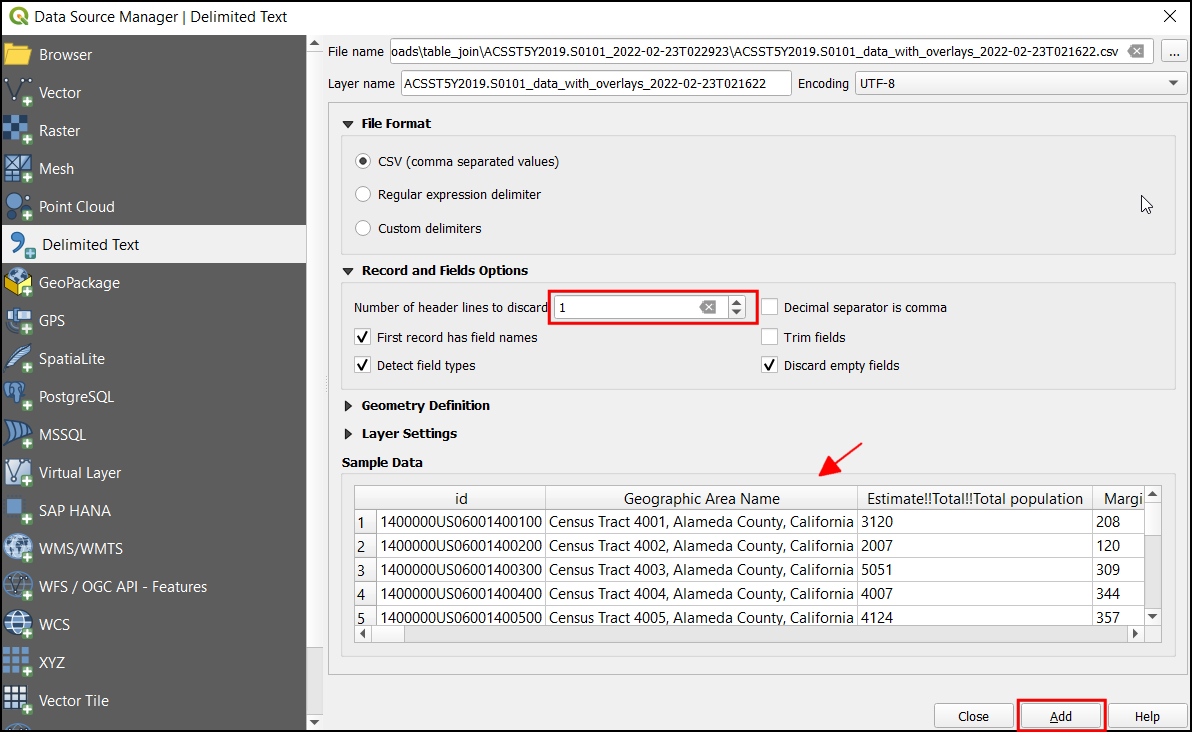
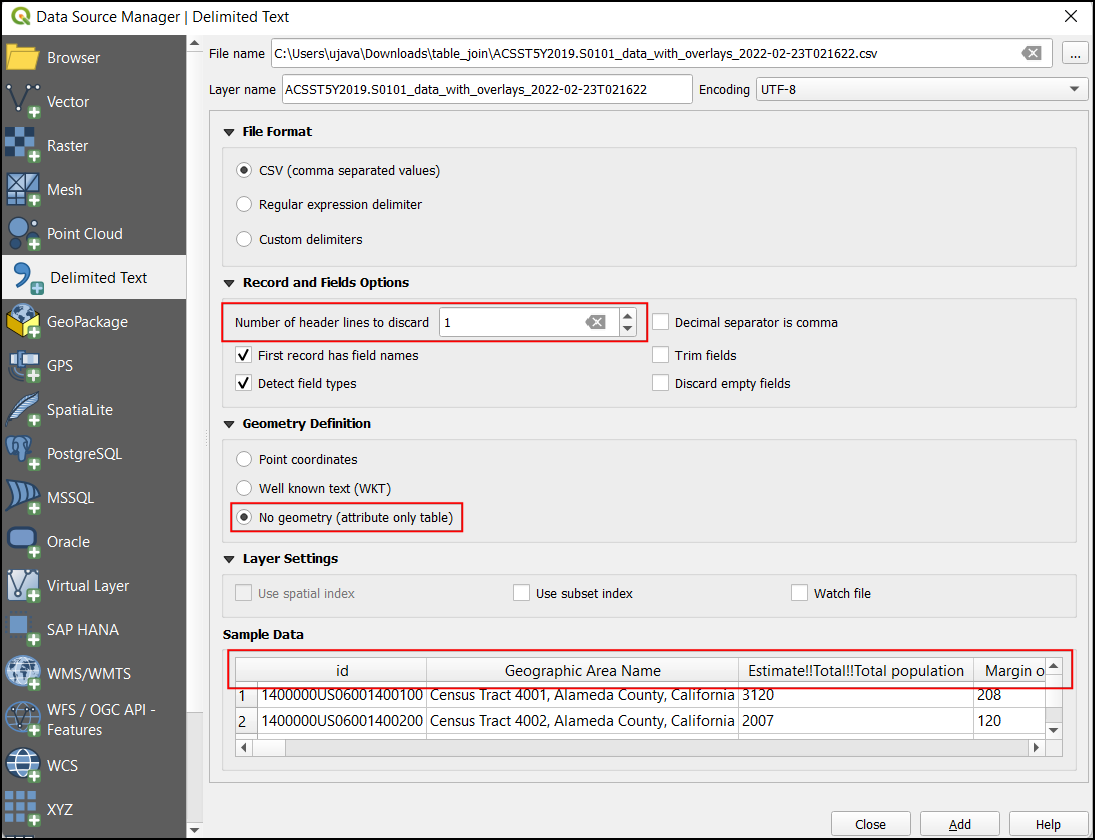
fix screenshot and instructions

Changed region(s): [[0.0, 0.0, 1.0, 1.0], [0.6831, 0.6011, 0.7142, 0.6612]]

diff --git a/source/docs/3/performing_table_joins.rst b/source/docs/3/performing_table_joins.rst
@@ -152,7 +152,7 @@ Procedure
   .. image:: /static/3/performing_table_joins/images/07.png
      :align: center
 
-8. To eliminate the additional header row, under :guilabel:`Record and Fields Options` set the :guilabel:`Number of header line to discard` to ``1``. Now the table will contain proper column headers. Click :guilabel:`Add` to add it as a layer and then click :guilabel:`Close` to close this dialog box. 
+8. To eliminate the additional header row, under :guilabel:`Record and Fields Options` set the :guilabel:`Number of header line to discard` to ``1``. Now the table will contain proper column headers. Since this layer contains only tabular data, select ``No geometry (attribute only table)`` under :guilabel:`Geometry Definition`. Click :guilabel:`Add` to add it as a layer and then click :guilabel:`Close` to close this dialog box. 
 
   .. image:: /static/3/performing_table_joins/images/08.png
      :align: center
